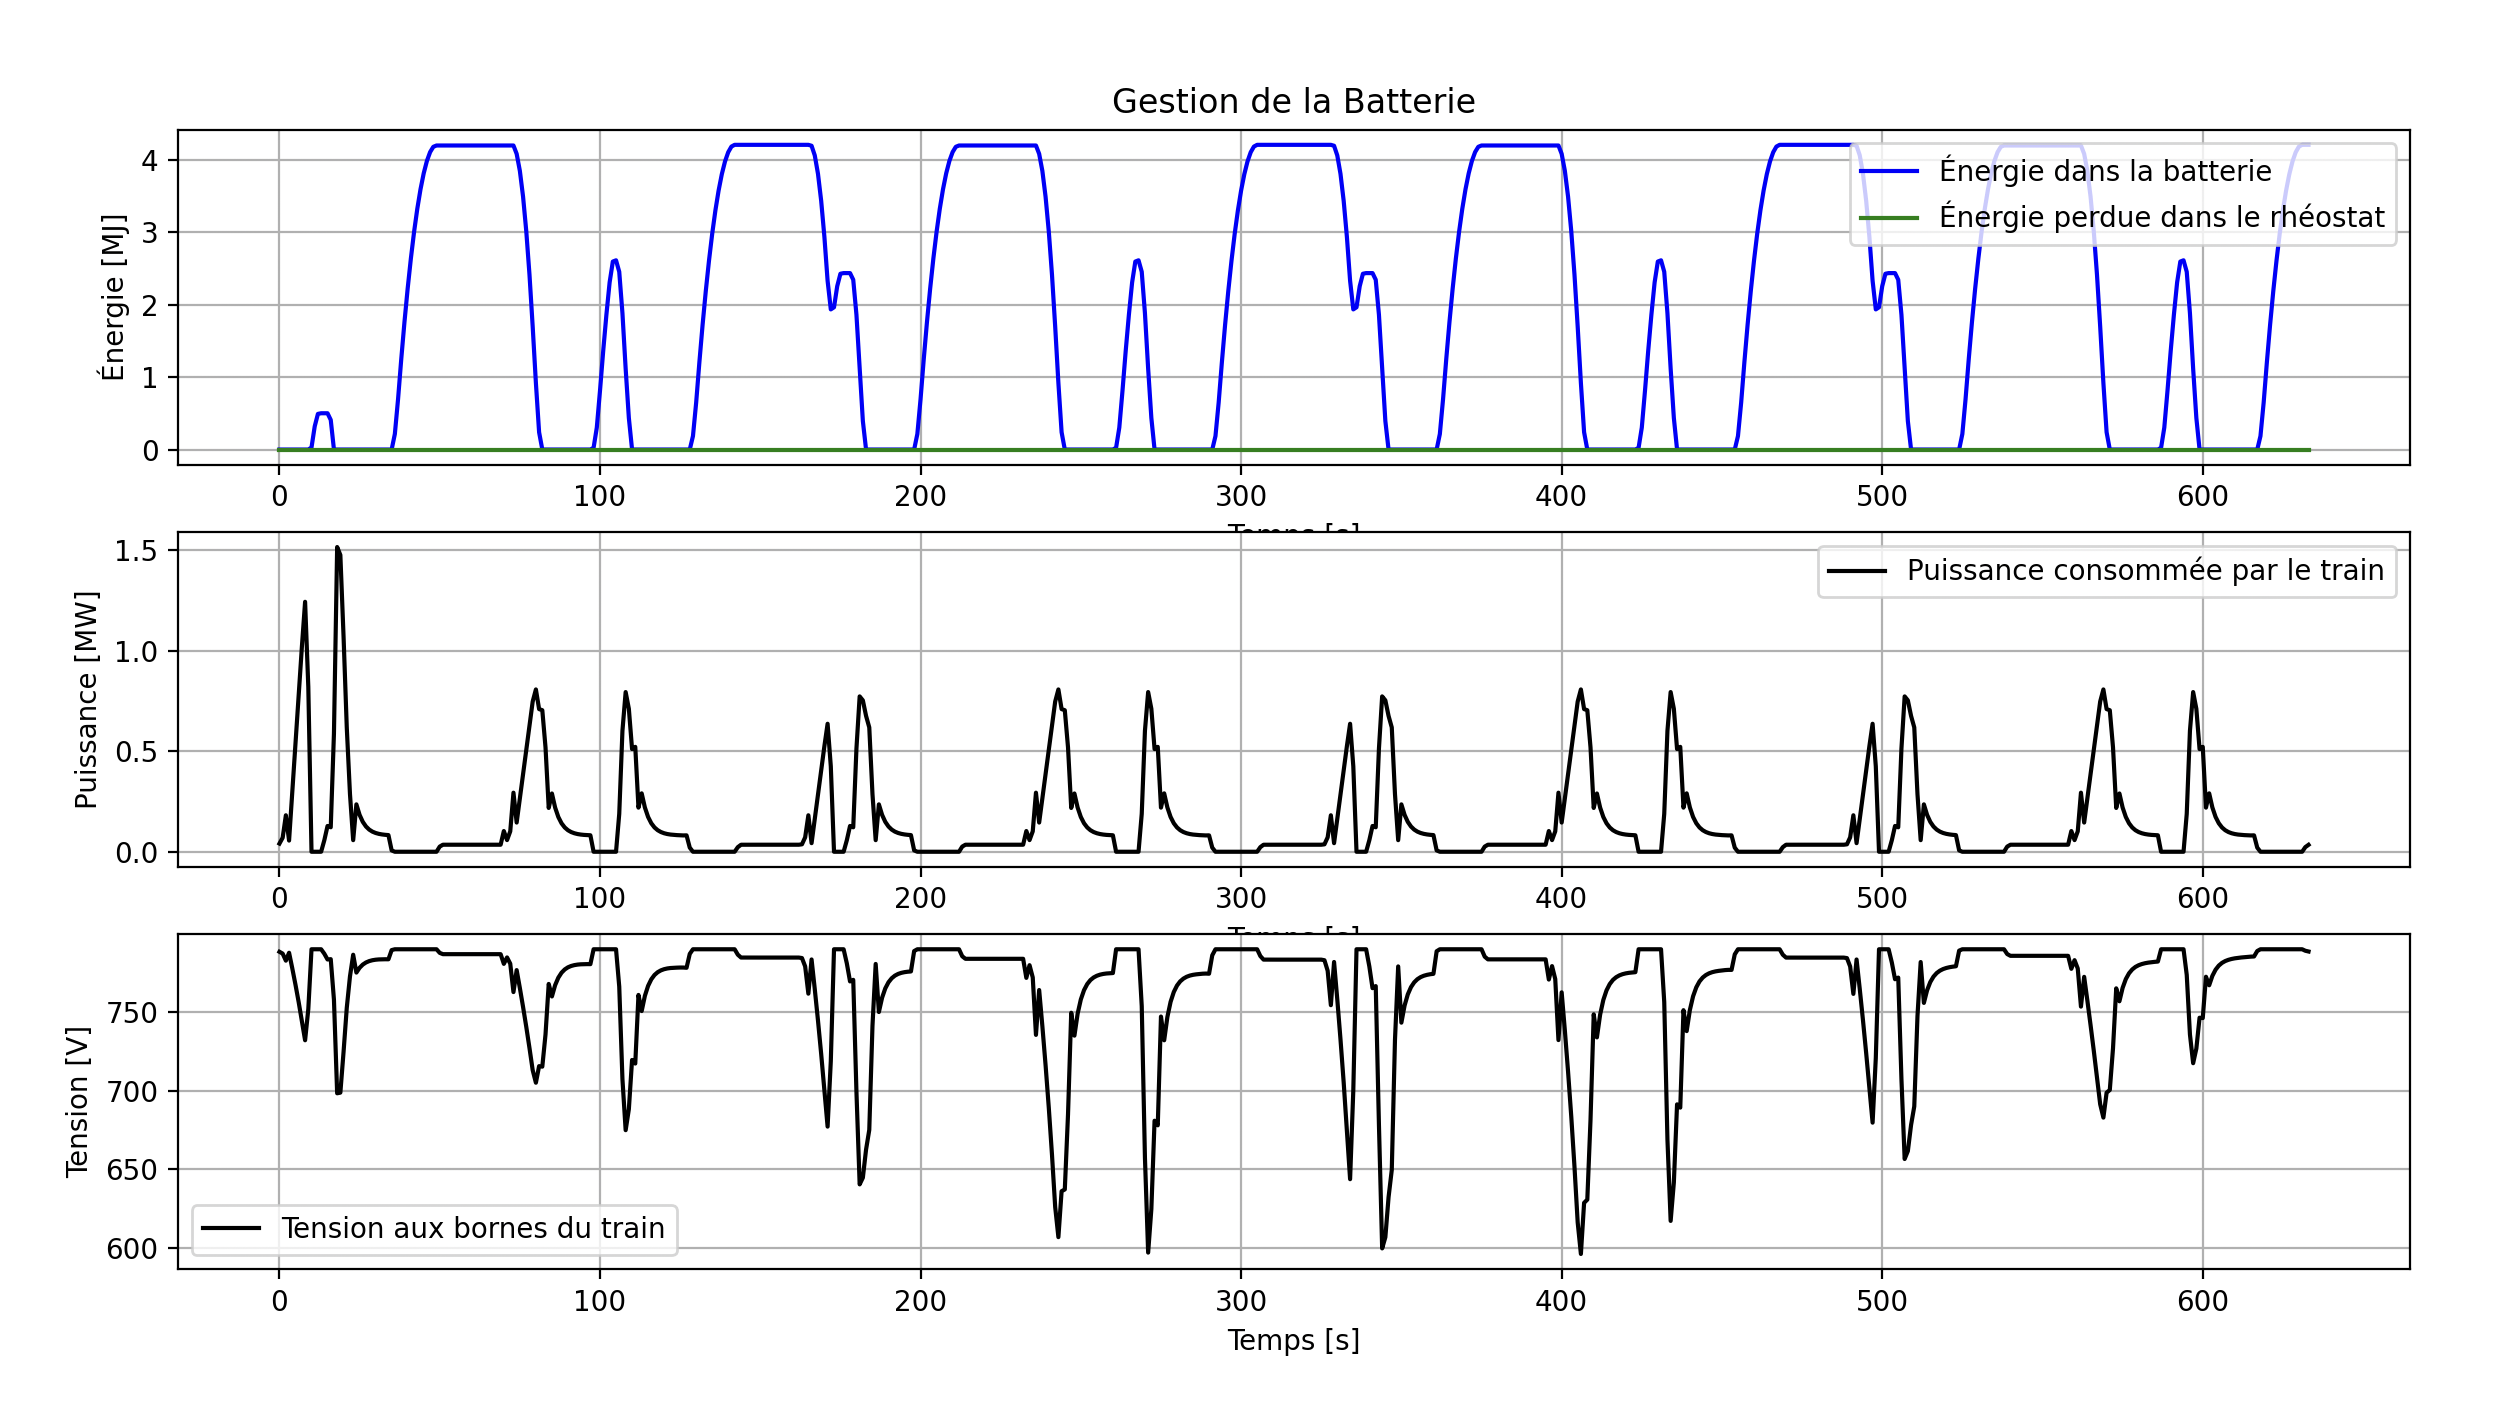
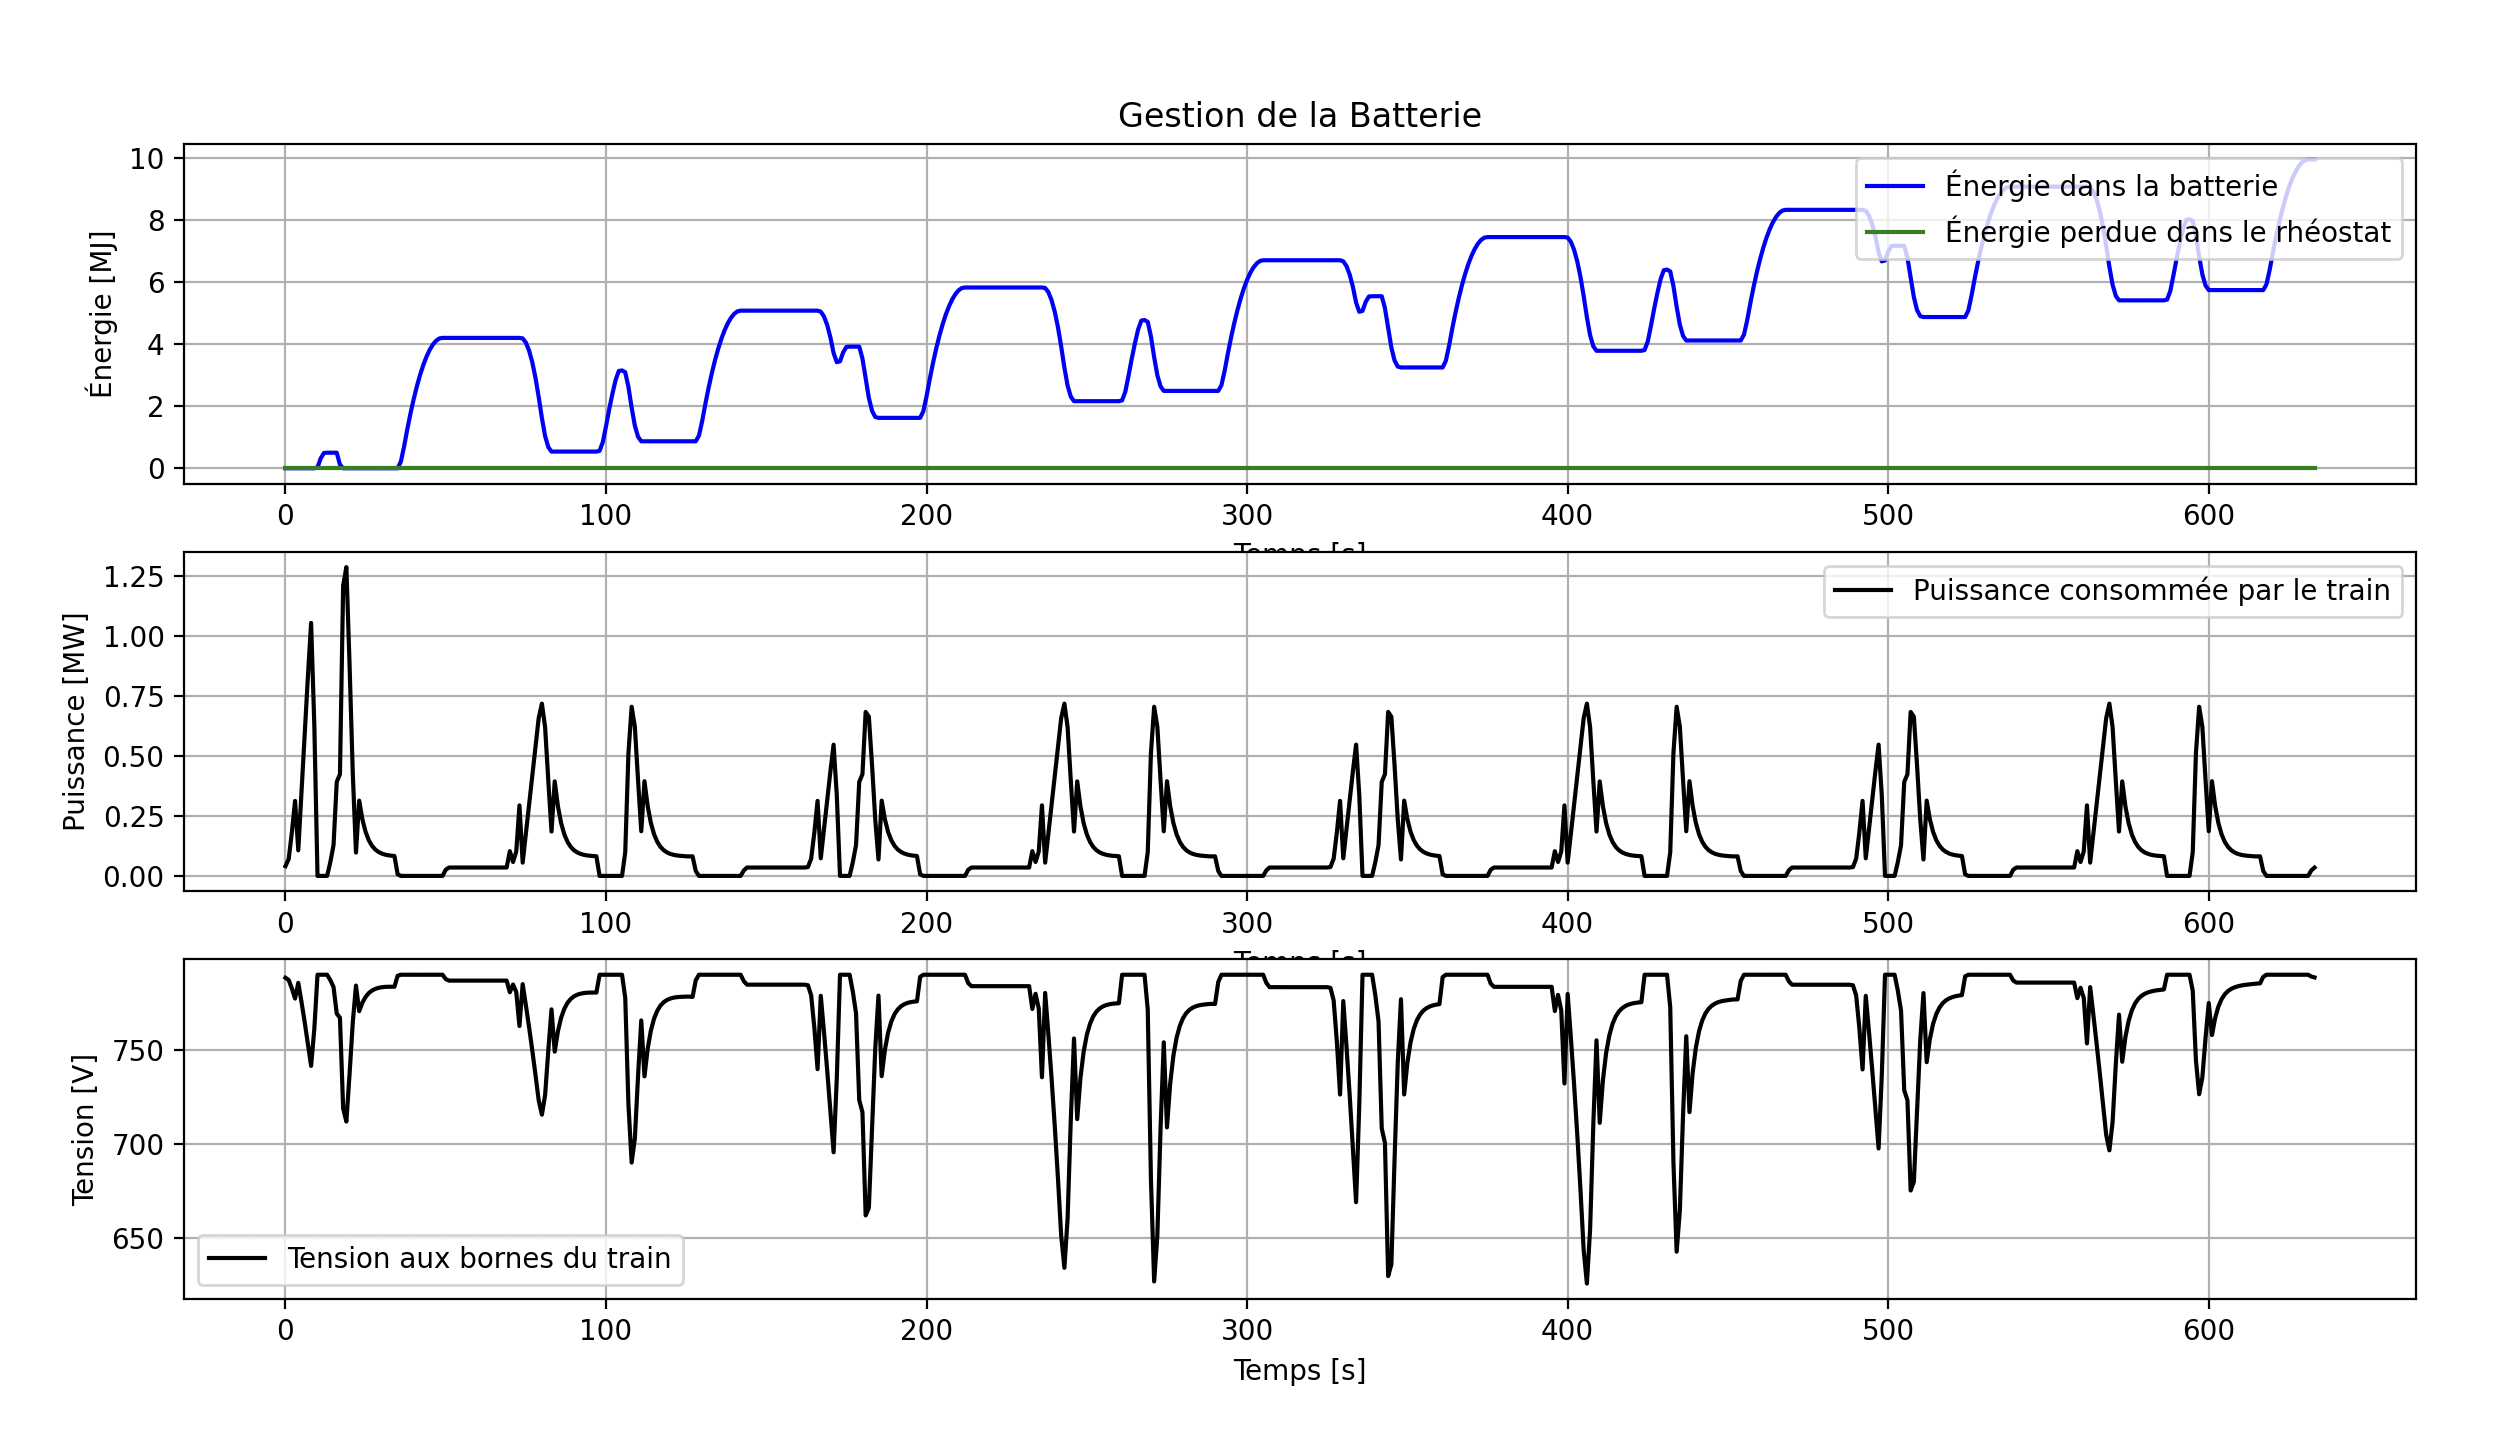
figure

Changed region(s): [[0.0, 0.0624, 0.988, 0.9674]]

diff --git a/Projet.py b/Projet.py
@@ -158,6 +158,7 @@ def Simulation(Bat_cap,seuil, PlotSim=False):
         plt.ylabel("Longueur [km]")
         plt.grid()
         plt.legend()
+        plt.legend(loc='upper right')  # Déplace la légende en haut à droite
 
         # Affichage vitesse :
         plt.subplot(3, 1, 2)
@@ -166,6 +167,8 @@ def Simulation(Bat_cap,seuil, PlotSim=False):
         plt.ylabel("Vitesse [km/s]")
         plt.grid()
         plt.legend()
+        plt.legend(loc='upper right')  # Déplace la légende en haut à droite
+        
         # Affichage accélération :
         plt.subplot(3, 1, 3)
         plt.plot(t, a/g, "-k", label="Accélération du train") # Accélération normalisée en g.
@@ -173,7 +176,7 @@ def Simulation(Bat_cap,seuil, PlotSim=False):
         plt.ylabel("Accélération [g]")
         plt.grid()
         plt.legend()
-
+        plt.legend(loc='upper right')  # Déplace la légende en haut à droite
 
         plt.figure("Puissance, tension et courant dans le train")
         # Affichage de la puissance :
@@ -433,7 +436,7 @@ def NSGA2(CapaLim, CapaStep, SeuilLim, SeuilStep, PopSize, N, mutant=0.25):
     Teste de SIMULATION
     ===================
 """
-#Simulation(10000, 300000, True)
+Simulation(10000, 400000, True)
 
 """
     MONTE-CARLO
@@ -454,7 +457,7 @@ pareto_seuils = [solu[1] for solu in non_dominés]
 
 best_capacite,best_seuil,best_chute = choisir_meilleur_point(non_dominés, 1, 17)
 
-Simulation(best_capacite, best_seuil, True) # Meilleure solution.
+#Simulation(best_capacite, best_seuil, True) # Meilleure solution.
 
 fig, axs = plt.subplots(1, 2, figsize=(12, 5))  # Create a figure with 2 subplots side by side
 plt.get_current_fig_manager().set_window_title('Monte-Carlo') # Nom de la fenêtre
